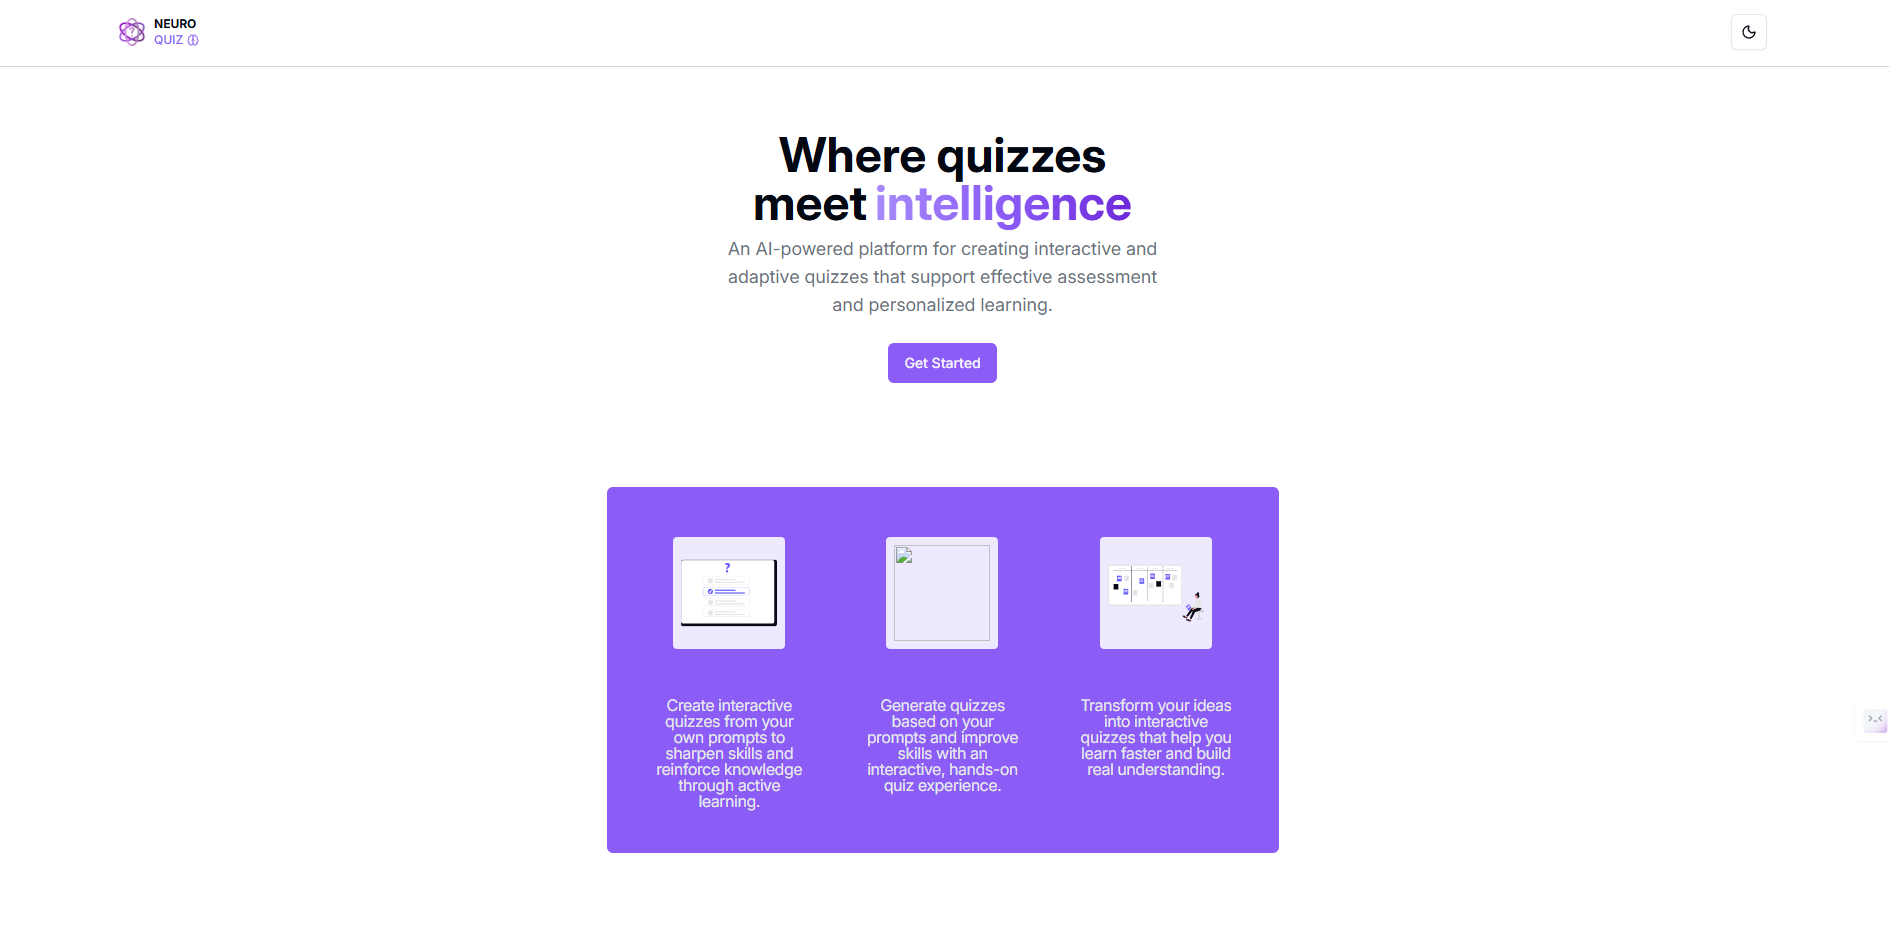
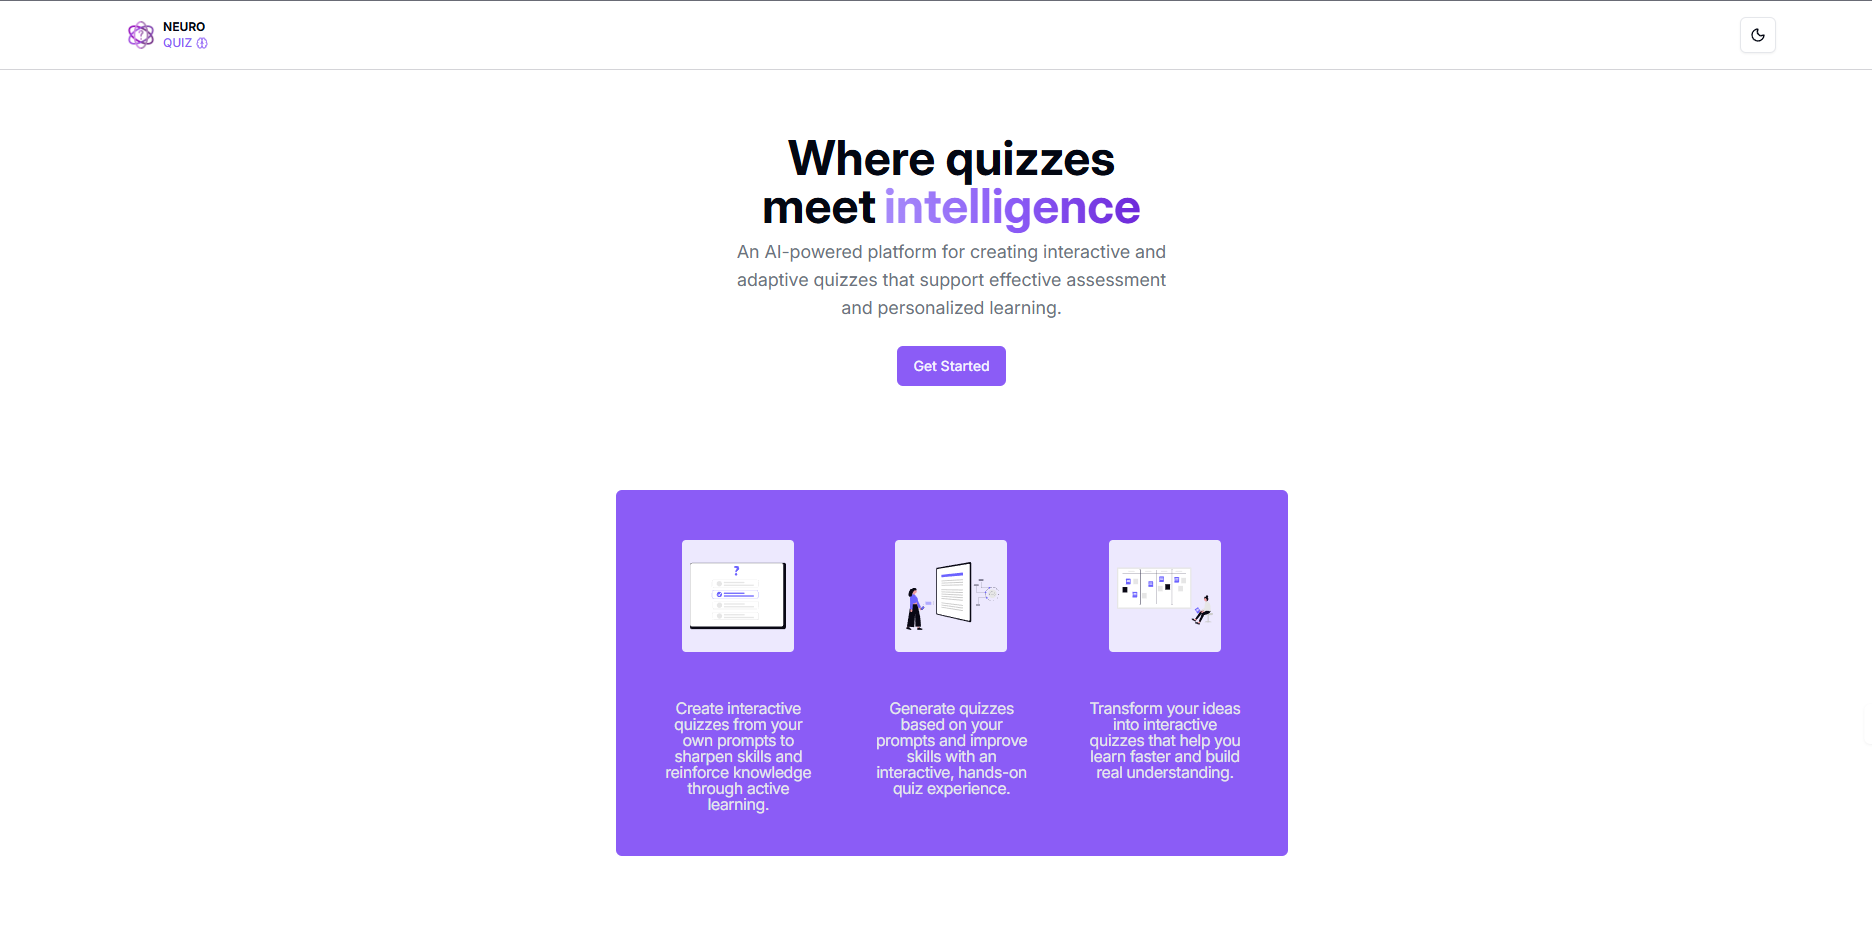
feat: change size quiality of images of quiz and pnp projects

diff --git a/src/lib/projectsData.ts b/src/lib/projectsData.ts
@@ -63,7 +63,7 @@ const projectsData: IProjectsData[] = [
   {
     id: 1, 
     title: "CSJDM-PNP Logistic Dept - Firearm Tracker",
-    imgSrc: "/pnp_landing.jpg", 
+    imgSrc: "/pnp_landing.png", 
     stacks: projectStacks.pnpFirearm,
     description: "A web-based firearm records management system developed for the Logistics Department of the Philippine National Police — City of San Jose del Monte, Bulacan. The system provides secure registration, tracking, and auditing of both long and short firearms assigned within the unit.", 
     type: "Internship Project", 